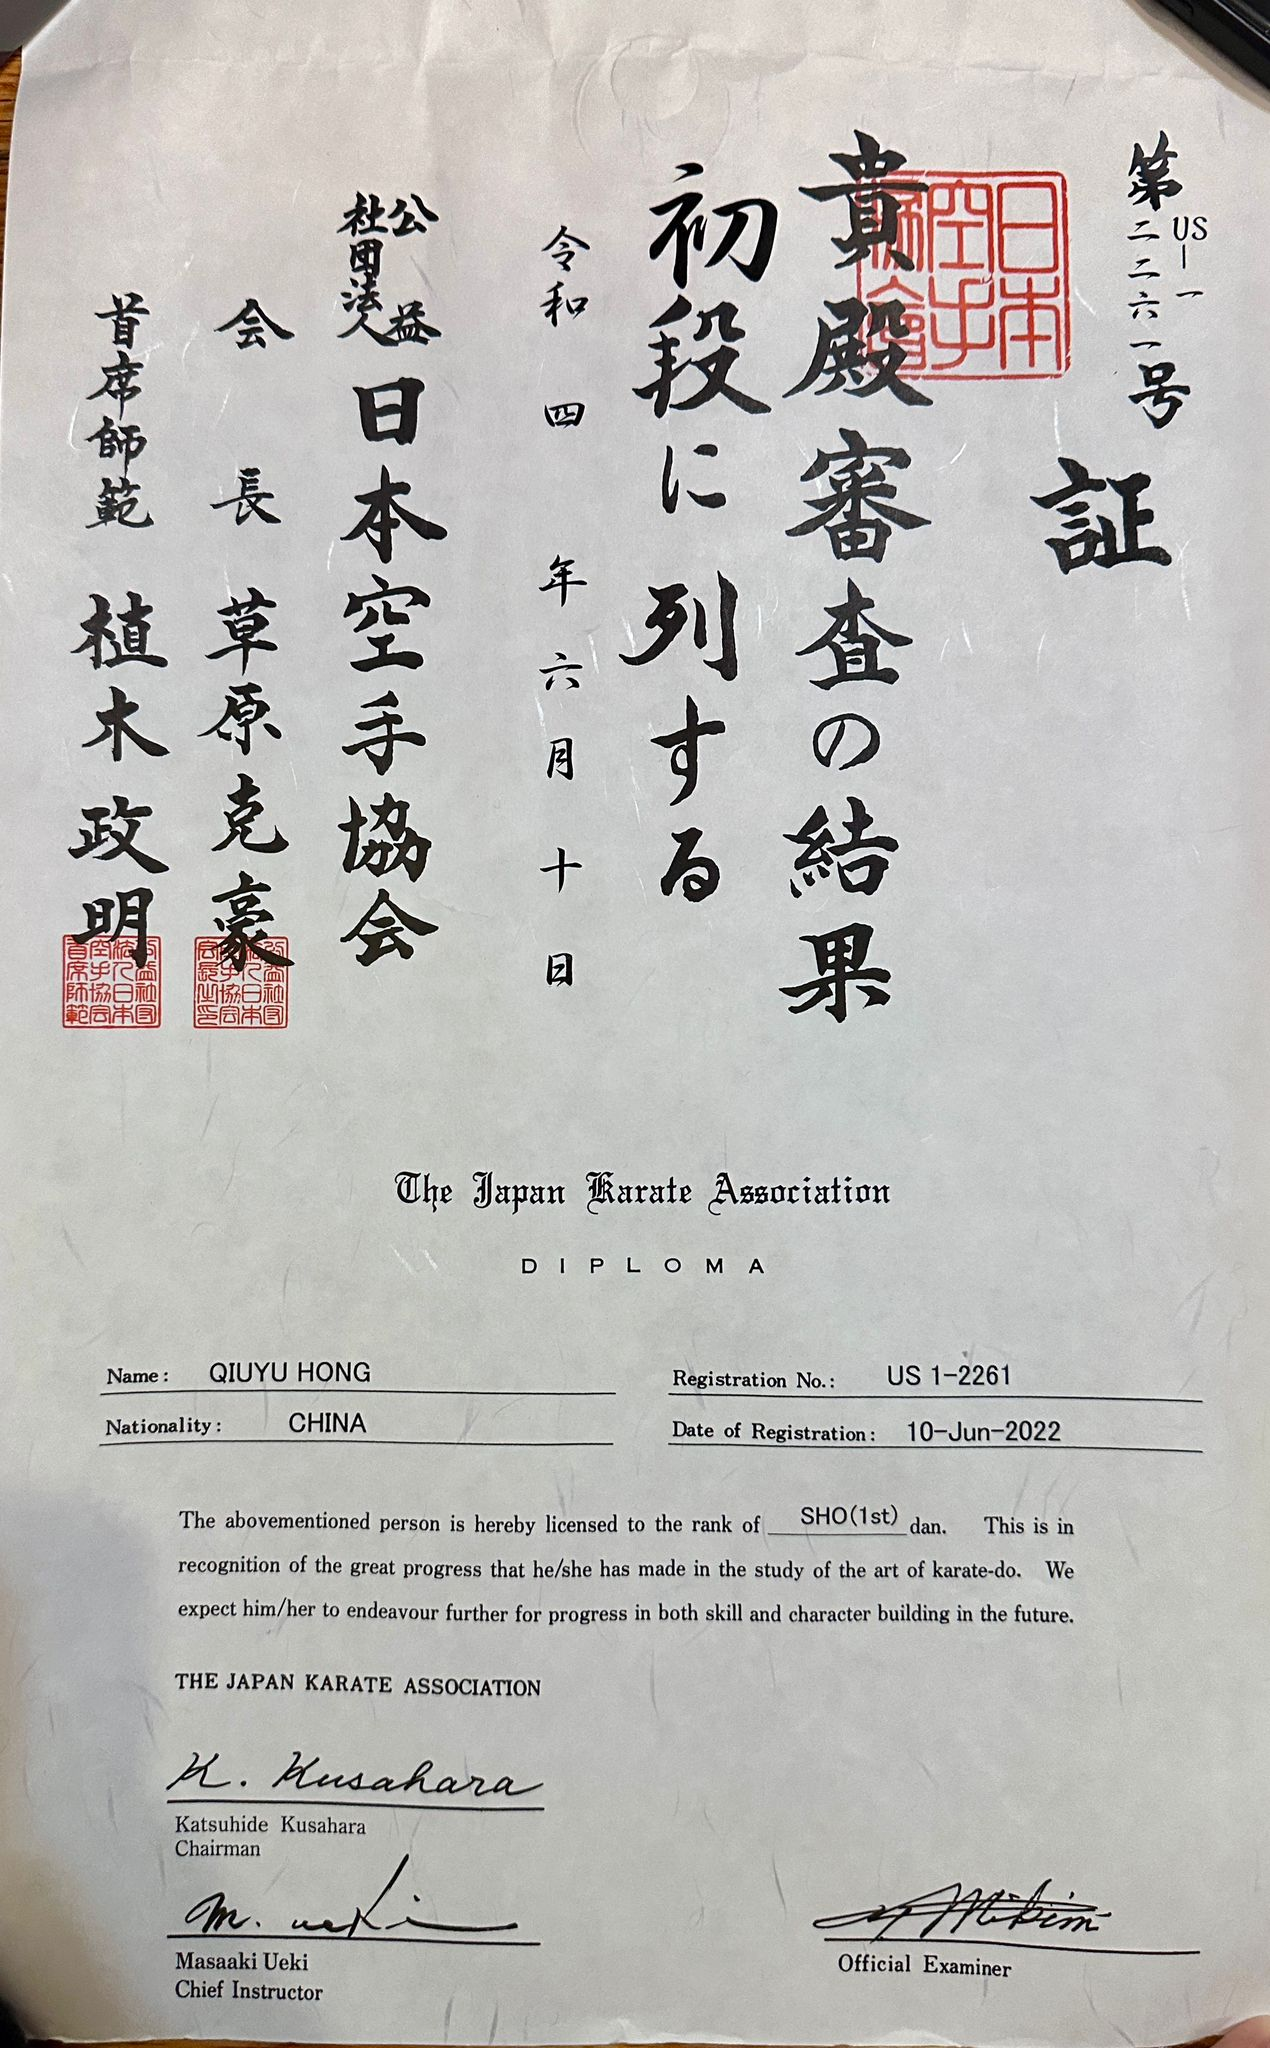
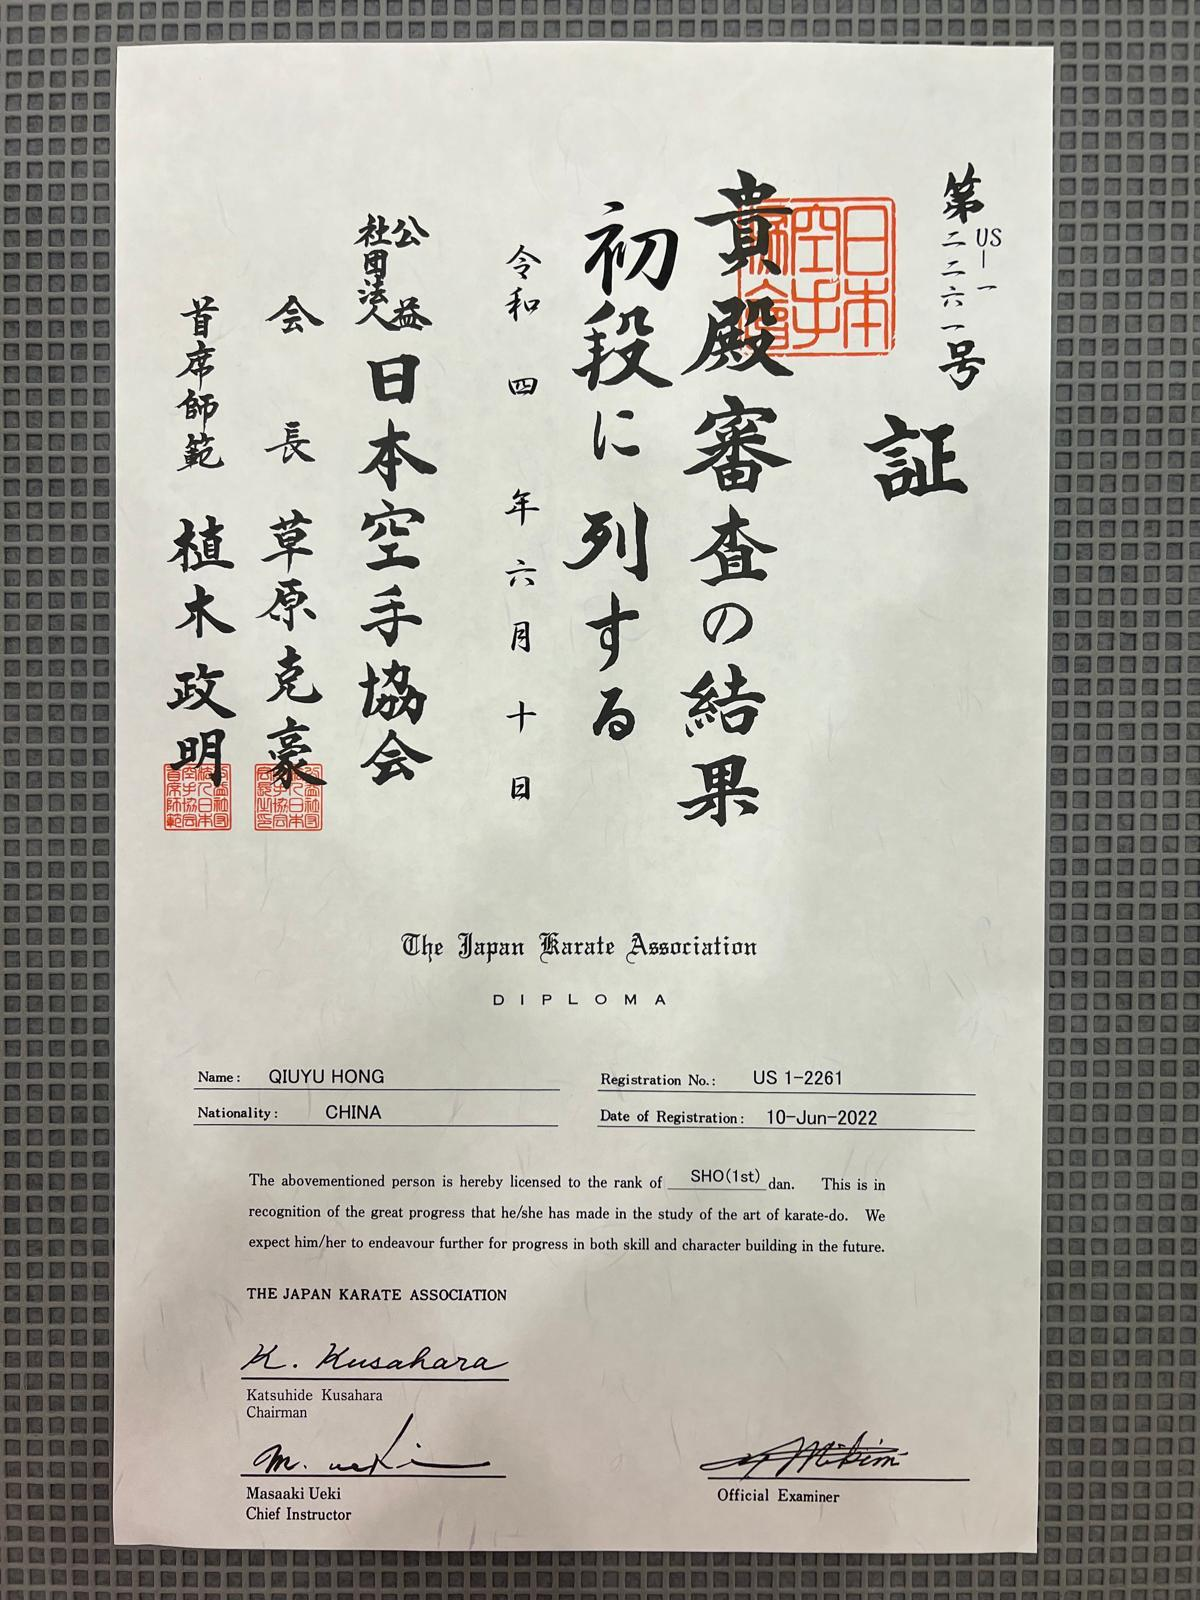
Wire 5 JKA certificates + add Amandine's missing JKA Nidan progression
JKA certs (10-Jun-2022 / 10-Jun-2023, signed by Kusahara/Ueki/Ogura):
- Hanamei Shao, Shodan 2022
- Nikita Patil, Shodan 2023
- Lorraine Sin, Nidan 2023
- Qiu Yu Hong Lu, Shodan 2022 (refreshed file with higher-res scan)
- Amandine Fromont, Nidan 2022 — NEW rank entry. She had Sandan/JKA/2025
  on file but the Nidan/2022 step was missing; cert confirms it.

Hirotaka Fujii cert (US 1-2298, JKA Shodan 10-Jun-2023) held aside —
not yet in roster, awaiting Emile's confirmation to add.

diff --git a/karate/data.js b/karate/data.js
@@ -145,7 +145,7 @@ const BLACK_BELTS = [
     flag: '🇭🇰',
     photo: 'photos/lorraine.jpeg',
     ranks: [
-      { rank: 'Nidan',  year: 2023, org: 'jka'    },
+      { rank: 'Nidan',  year: 2023, org: 'jka',    certificate: 'certificates/lorraine-jka-nidan.jpeg' },
       { rank: 'Nidan',  year: 2022, org: 'hdki'   },
       { rank: 'Nidan',  year: 2022, org: 'jukf'   },
       { rank: 'Shodan', year: 2017, org: 'tabata' },
@@ -162,6 +162,7 @@ const BLACK_BELTS = [
     photoFocus: '72% 30%',
     ranks: [
       { rank: 'Sandan', year: 2025, org: 'jka'    },
+      { rank: 'Nidan',  year: 2022, org: 'jka',    certificate: 'certificates/amandine-jka-nidan.jpeg' },
       { rank: 'Nidan',  year: 2026, org: 'hdki'   },
       { rank: 'Shodan', year: 2021, org: 'hdki'   },
       { rank: 'Nidan',  year: 2022, org: 'jukf'   },
@@ -261,7 +262,7 @@ const BLACK_BELTS = [
     photo: 'photos/hanamei.jpeg',
     photoFocus: 'center 30%',
     ranks: [
-      { rank: 'Shodan', year: 2022, org: 'jka'  },
+      { rank: 'Shodan', year: 2022, org: 'jka',  certificate: 'certificates/hanamei-jka-shodan.jpeg' },
       { rank: 'Shodan', year: 2022, org: 'hdki' },
       { rank: 'Shodan', year: 2022, org: 'jukf' },
     ],
@@ -276,7 +277,7 @@ const BLACK_BELTS = [
     photoFocus: 'center 30%',
     ranks: [
       { rank: 'Nidan',  year: 2024, org: 'jka'  },
-      { rank: 'Shodan', year: 2023, org: 'jka'  }, // earlier JKA progression
+      { rank: 'Shodan', year: 2023, org: 'jka',  certificate: 'certificates/nikita-jka-shodan.jpeg' }, // earlier JKA progression
       { rank: 'Shodan', year: 2022, org: 'jukf' },
     ],
   },

diff --git a/karate/ROSTER.md b/karate/ROSTER.md
@@ -75,7 +75,7 @@ Algeria · Armenia · Australia · Bangladesh · Benin · Brazil · Canada · Ch
 - **Universities:** Boston University, Lesley University
 - **Photo:** photos/lorraine.jpeg
 - **Ranks:**
-  - Nidan, JKA (2023)
+  - Nidan, JKA (2023) [cert]
   - Nidan, HDKI (2022)
   - Nidan, JUKF (2022)
   - Shodan, Tabata Sensei (2017)
@@ -87,6 +87,7 @@ Algeria · Armenia · Australia · Bangladesh · Benin · Brazil · Canada · Ch
 - **Photo:** photos/amandine.jpg
 - **Ranks:**
   - Sandan, JKA (2025)
+  - Nidan, JKA (2022) [cert]
   - Nidan, HDKI (2026)
   - Shodan, HDKI (2021)
   - Nidan, JUKF (2022)
@@ -120,7 +121,7 @@ Algeria · Armenia · Australia · Bangladesh · Benin · Brazil · Canada · Ch
 - **Photo:** photos/qiu.jpeg
 - **Ranks:**
   - Nidan, JKA (2025)
-  - Shodan, JKA (2022)
+  - Shodan, JKA (2022) [cert]
   - Shodan, JUKF (2022)
 
 ### 9. Amy Liu
@@ -150,7 +151,7 @@ Algeria · Armenia · Australia · Bangladesh · Benin · Brazil · Canada · Ch
 - **University:** Wellesley College
 - **Photo:** photos/hanamei.jpeg
 - **Ranks:**
-  - Shodan, JKA (2022)
+  - Shodan, JKA (2022) [cert]
   - Shodan, HDKI (2022)
   - Shodan, JUKF (2022)
 
@@ -160,7 +161,7 @@ Algeria · Armenia · Australia · Bangladesh · Benin · Brazil · Canada · Ch
 - **Photo:** photos/nikita.jpg
 - **Ranks:**
   - Nidan, JKA (2024)
-  - Shodan, JKA (2023)
+  - Shodan, JKA (2023) [cert]
   - Shodan, JUKF (2022)
 
 ### 14. Savannah Wu
